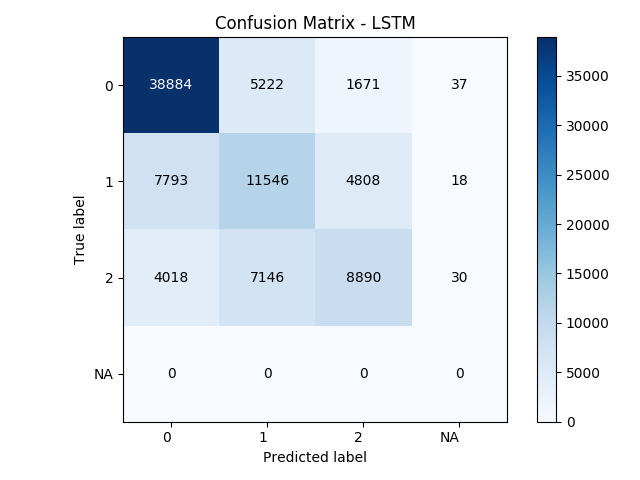
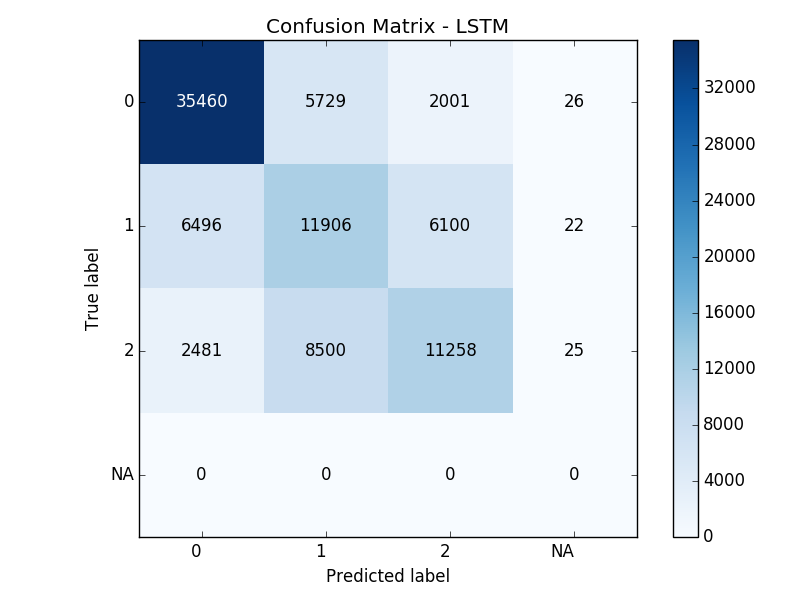
new LSTM accuracy for Train-360, and image updated

diff --git a/README.md b/README.md
@@ -108,7 +108,7 @@ Atlas 2 2
 | BERT-base cased                                 | train-360   |  0.6947     | **0.6936** |  0.6947     | **0.6937** |
 | BERT-base uncased + 3-layer BiLSTM              | train-360   |  0.6954     |  0.6932    | **0.6954**  | 0.6919     |
 | BiLSTM (3 layers)                               | train-360   |  0.6771     |  0.6690    |  0.6771     | 0.6714     |
-| LSTM (1 layers)                                 | train-360   |  0.6587     |  0.6487    |  0.6587     | 0.6506     |
+| LSTM (1 layers)                                 | train-360   |  0.6513     |  0.6487    |  0.6587     | 0.6506     |
 | Majority per word                               | train-360   |  0.6055     |  0.4897    |  0.6055     | 0.5394     |
 | Minitagger (SVM) + word embeddings (GloVe)      | train-360   |  0.6645     |  0.6493    |  0.6645     | 0.6535     |
 | Minitagger (SVM) + word embeddings (Speech2Vec) | train-360   |  0.6647     |  0.6489    |  0.6647     | 0.6534     |
